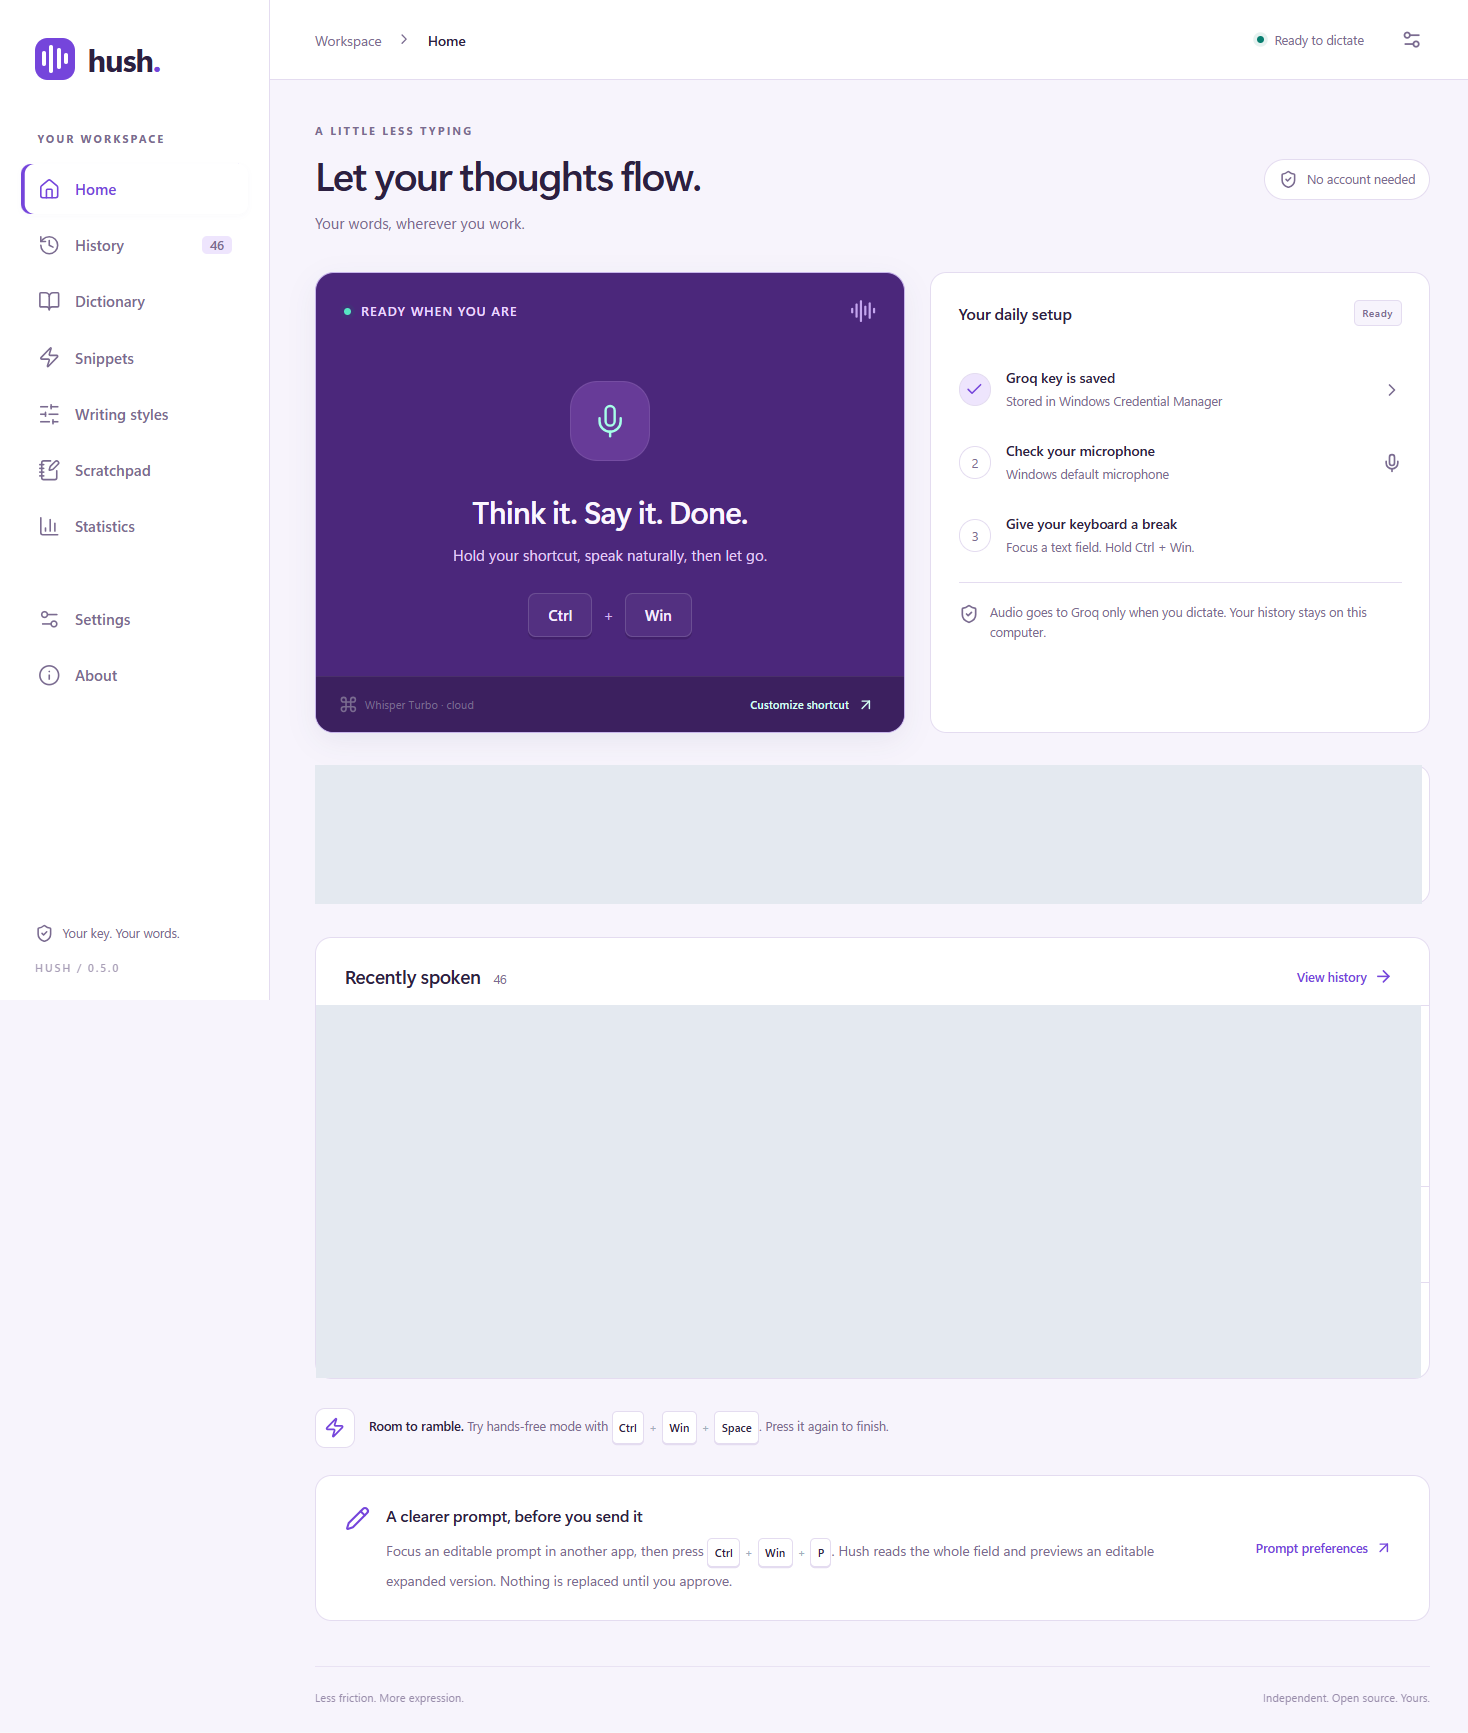
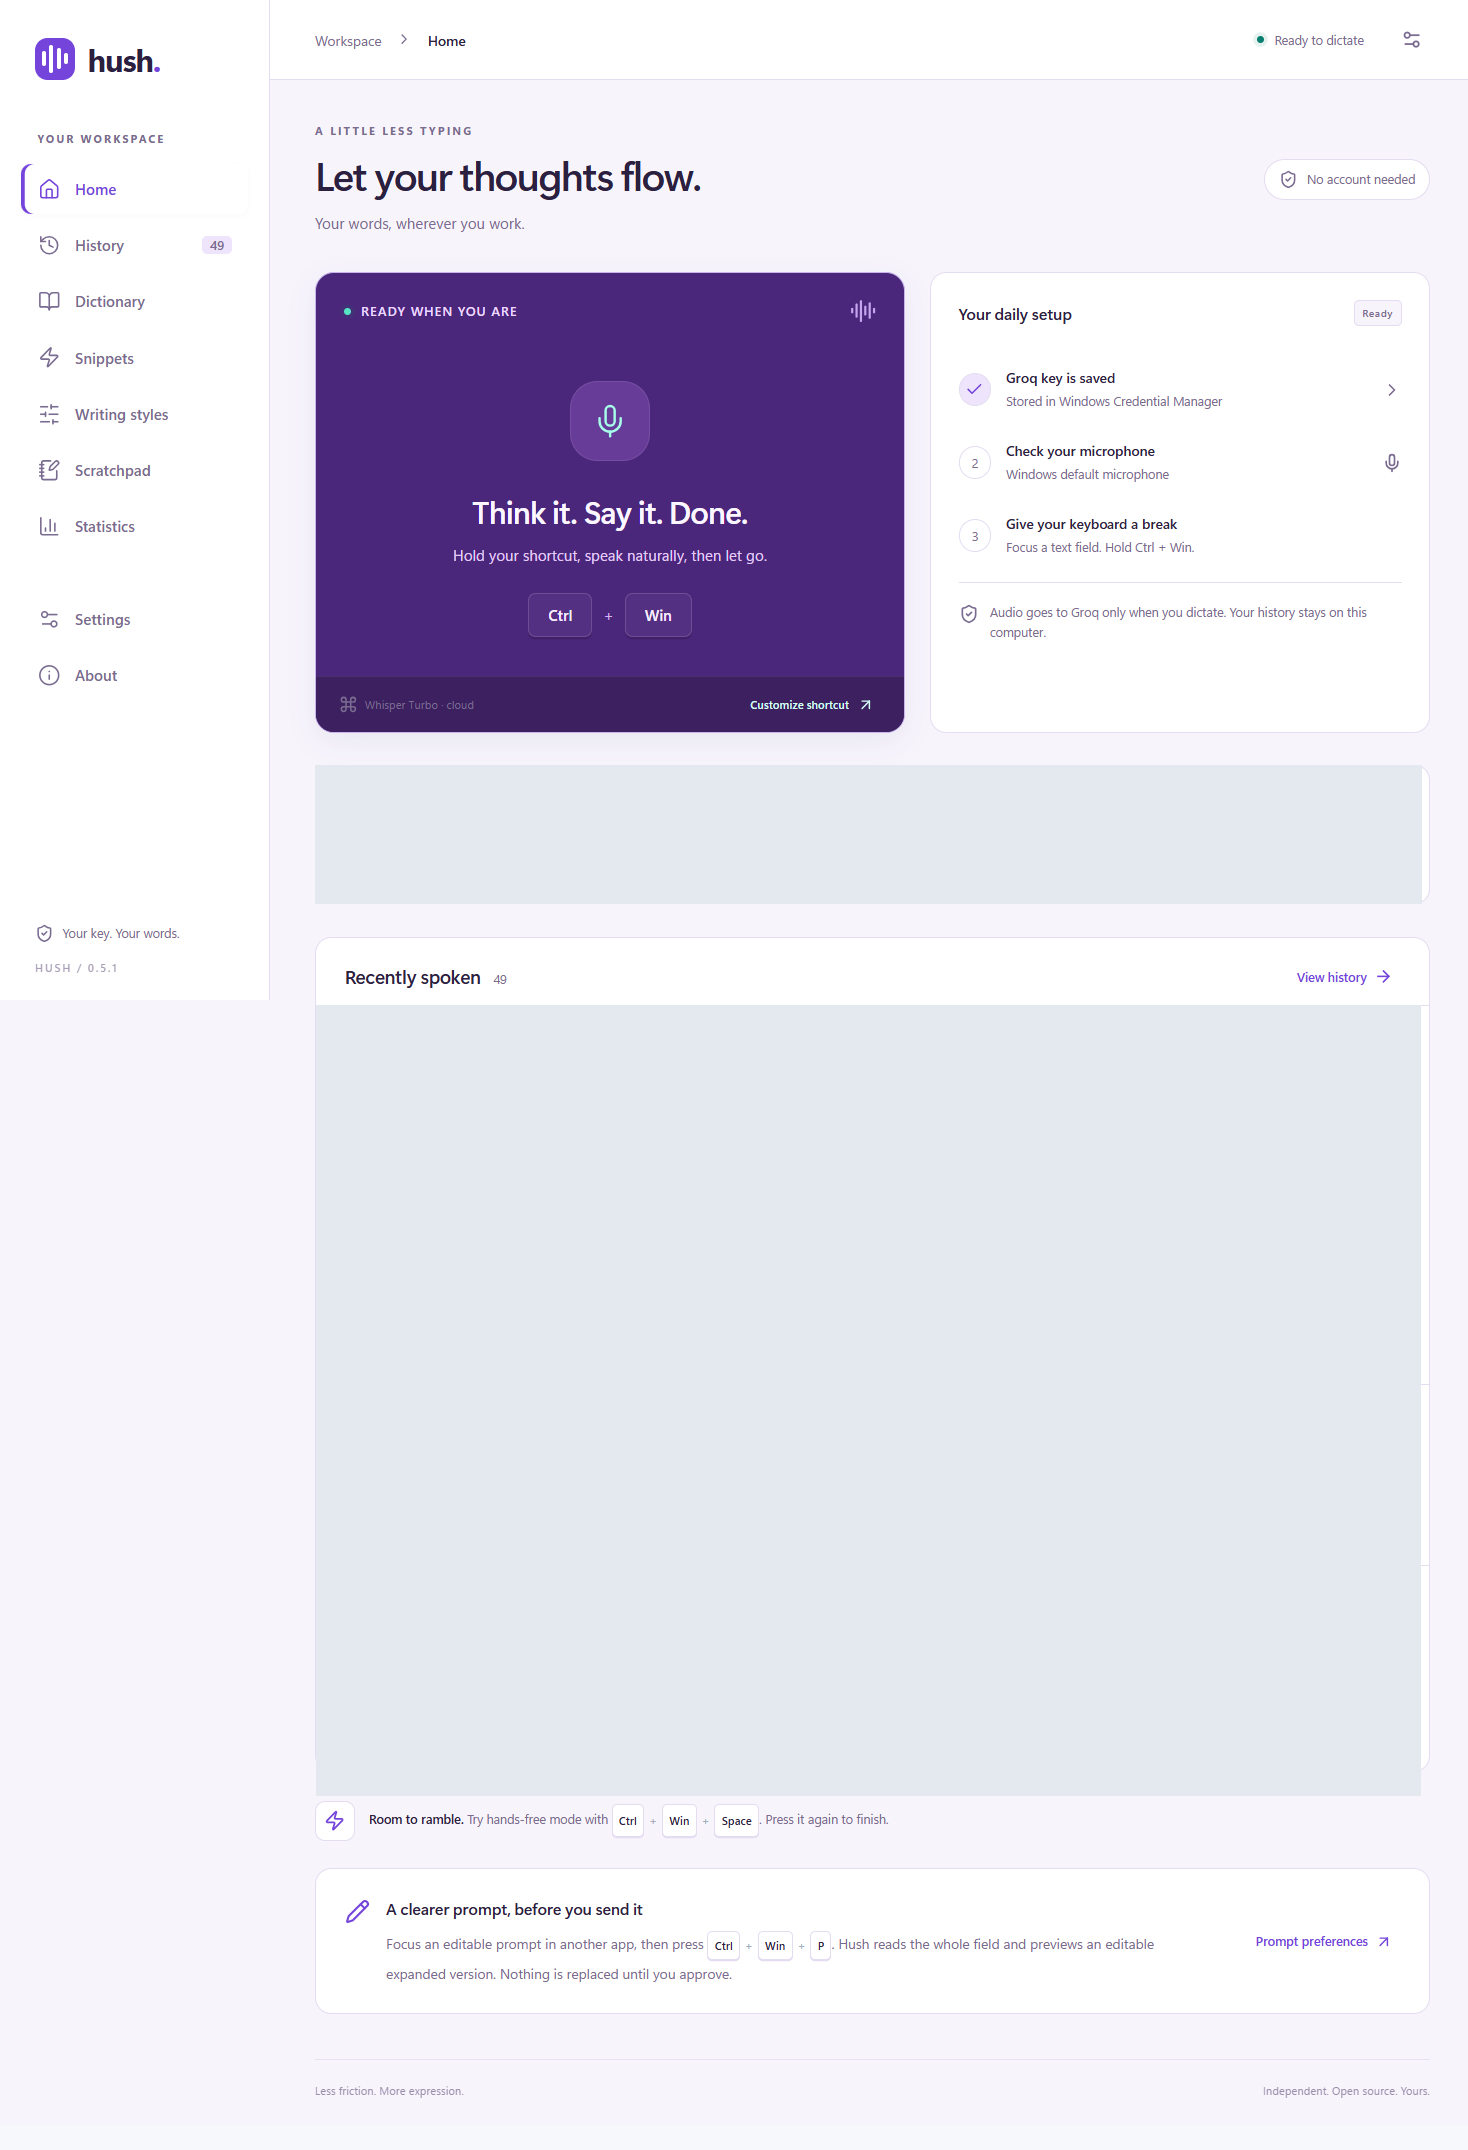
Record verified 0.5.1 Windows delivery and packaging checks [skip ci]

diff --git a/docs/QA.md b/docs/QA.md
@@ -270,3 +270,11 @@ The optimized executable reports version **0.5.0**. Packaged native IPC passed s
 Per-user installation, background launch, dependency notices, clean uninstall and profile retention passed. The unrelated legacy Hush registration and shortcuts were unchanged. The interactive installer wizard and in-place upgrade remain unverified. Installer and portable ZIP were generated; [installer results](verification/installer-test-0.5.0.json) and [sizes/checksums](verification/artifacts-0.5.0.json). The background resource observation is documented in PERFORMANCE.md; it excludes the dashboard and active inference. The public Release gate remains closed because full live acceptance is incomplete.
 
 Hosted Windows CI passed for source commit ffed613: lint, frontend/browser tests, formatting, strict Clippy, Rust tests, actual offline CPU recognition, installer and portable generation, and artifact upload. [Run](https://github.com/chahatesh/Hushline/actions/runs/40054814727), [saved step results](verification/ci-0.5.0.json). The local 0.5.0 app was reopened after testing. The acceptance verifier correctly rejected incomplete live evidence; no public Release or tag was created.
+
+### 0.5.1 packaged and hosted checks
+
+The optimized 0.5.1 app passed real IPC startup, microphone test cancellation/normal Stop without speech uploads, style/AI/deadline preference persistence, metadata privacy, dictionary persistence, backup exclusions and dashboard close-to-tray/reopen. Existing credentials and user preferences/history were retained. [Desktop report](verification/desktop-smoke-0.5.1.json). The smoke report label was corrected to distinguish its untested live speech path from the separately passed native insertion fixtures.
+
+Per-user installer installation, background launch, dependency notices, clean uninstall, retained profile and preservation of unrelated legacy Hush registration/shortcuts passed. Installer and portable ZIP were generated. [Installer report](verification/installer-test-0.5.1.json), [sizes/checksums](verification/artifacts-0.5.1.json). Interactive wizard and in-place upgrade remain unverified.
+
+Hosted Windows CI passed for implementation commit `a8004ce`, including frontend/browser/Rust checks, real offline CPU recognition, installer/portable packaging and artifact upload. [Run](https://github.com/chahatesh/Hushline/actions/runs/40093538579), [step results](verification/ci-0.5.1.json). No public Release is created while full live microphone-to-Groq-to-target and prompt acceptance remain incomplete.
